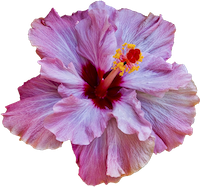
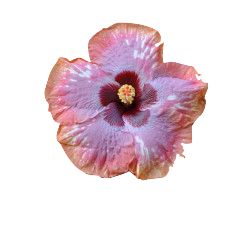
P2 Final Commit
- changed the flowers

diff --git a/stardoll/README.md b/stardoll/README.md
@@ -7,4 +7,7 @@ Art: This idea was to explore new ways of showcasing beauty looks (here we didn'
 
 Techno: 3 arrays : make-up (which are flower icons that are to be dragged and dropped on the doll's face), visages (which are the faces with make-up and they appears only after the user dropped the make-up floral icon on the doll) and hairstyles. Mostly a drag-and-drop-element type of interactivity that triggers its result. Object-oriented programming with 2 classes : Hairstyles and Make-up. 3 states game (title, hair/make-up game, the credit); music starts at the game state. The make-up and hair elements has names (displayed when the user hover over them) that are thought to remind the user they compose the product of this game. Short instructions at the bottom of the canvas in a message box.  
 
-Attribution : except if stated otherwise, I had lot of help for Sabine (computation lab), but every time she would say that I figured it out on my own so I am guessing I didn't use her codes. The format of the classes and template of my program, such as for loops; preload(), setup(), functions then draw() template; arrays, etc, are predominantly inspired from the method learned in class (Source : Pippin Barr). 
+Attribution : except if stated otherwise, I had lot of help for Sabine (computation lab), but every time she would say that I figured it out on my own so I am guessing I didn't use her codes. The format of the classes and template of my program, such as for loops; preload(), setup(), functions then draw() template; arrays, etc, are predominantly inspired from the method learned in class (Source : Pippin Barr).
+
+Flower : https://dupontnursery.com/cajun-hibiscus/
+Hair and Make-Up : dyamond https://www.instagram.com/dyamond.dy/
